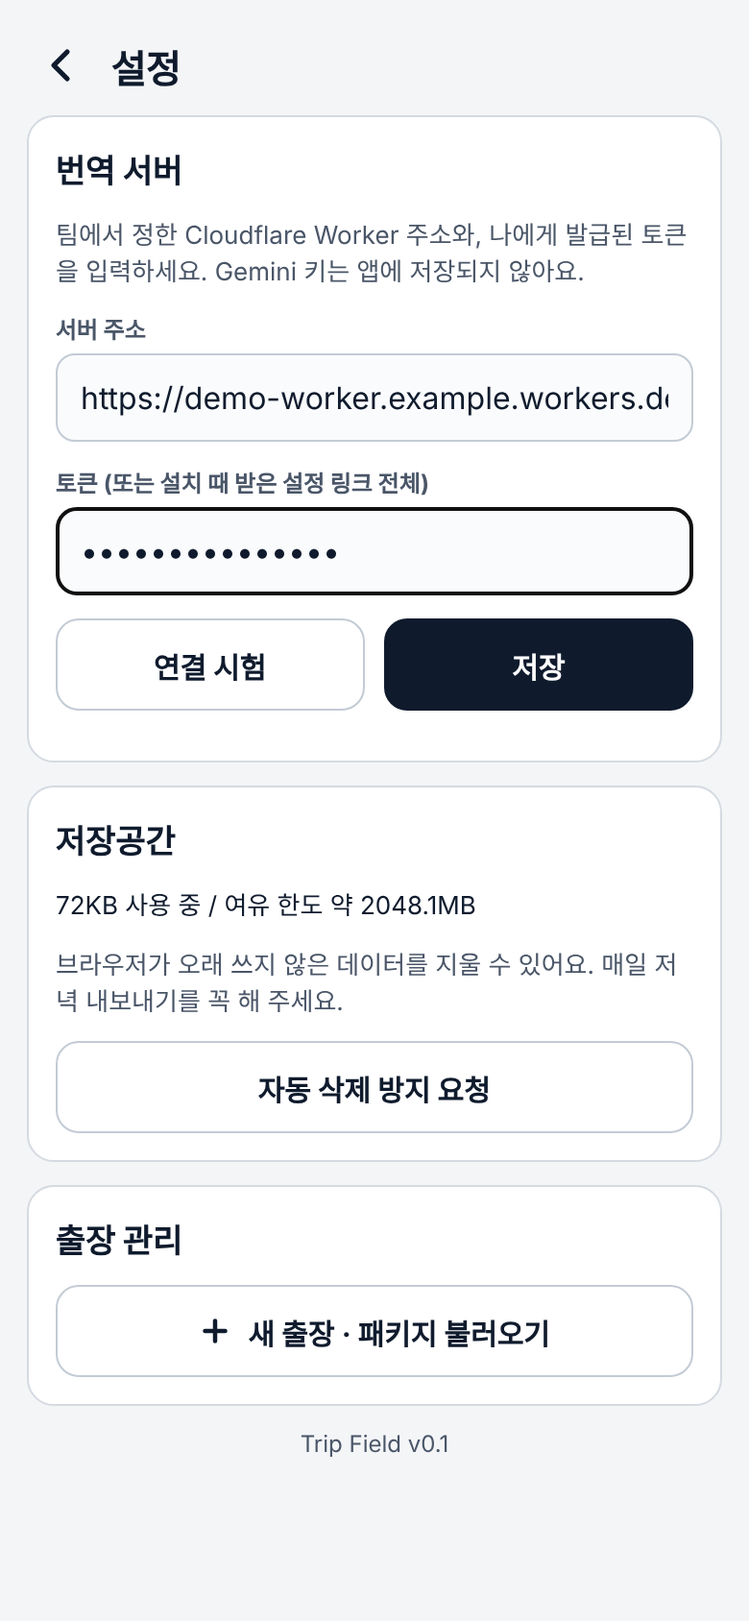
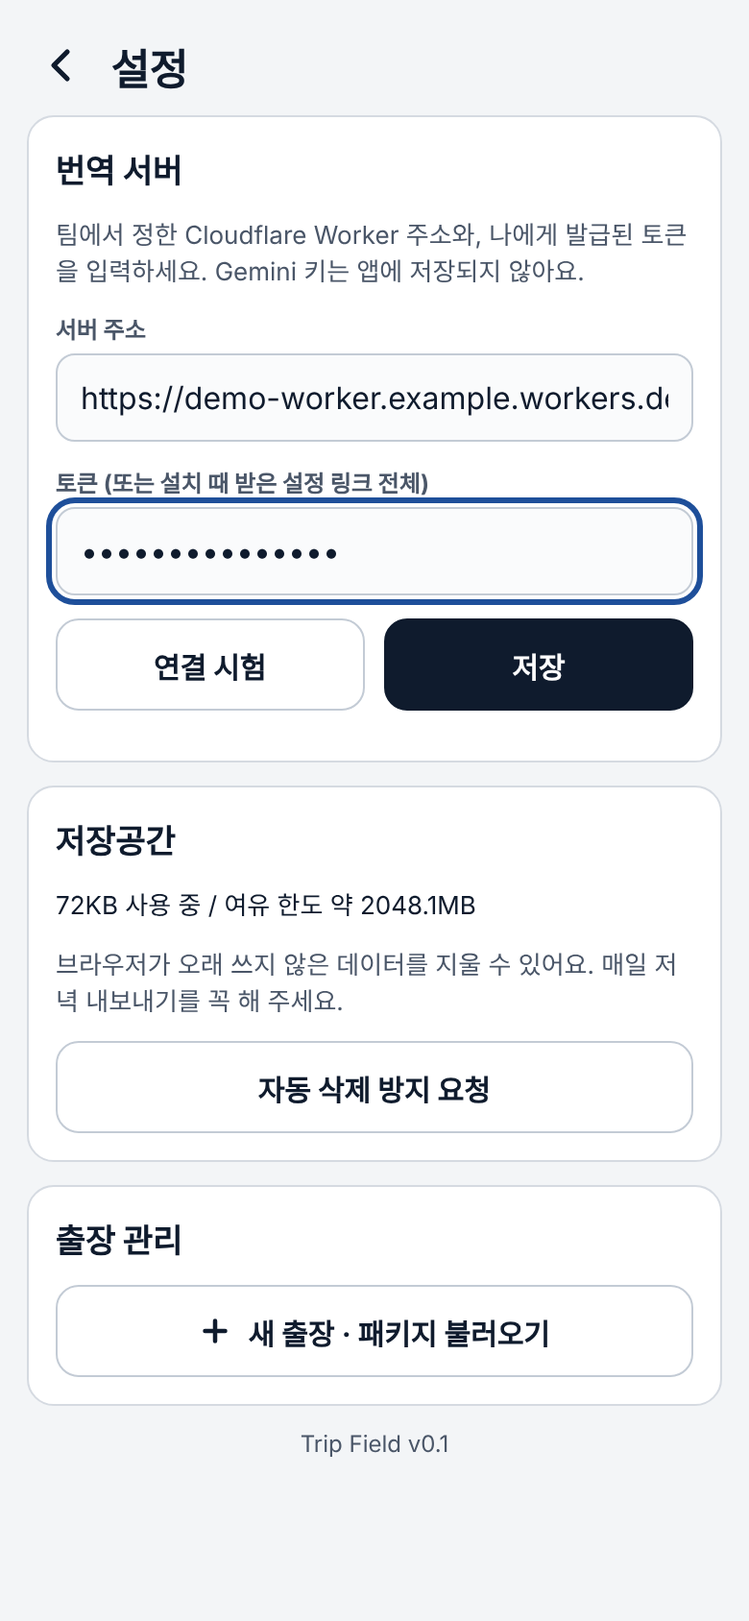
폰 앱 UI 개선: 헤더(라벨 버튼·한 줄 이름), 리스트(다음 세션 카드), 업체 상세(전체폭 방문 체크), 맵(하단 바·핀 위치), 식사·이동 시트(식사+현지 음식 통합, 접기, 평점 칩), 날짜 입력 넘침 수정
Claude-Session: https://claude.ai/code/session_01QquWuwNK276MS5WpECriYo

Changed region(s): [[0.0615, 0.3081, 0.9538, 0.3697], [0.0923, 0.3697, 0.8923, 0.4005], [0.1538, 0.0308, 0.2462, 0.0616]]

diff --git a/field-pwa/js/views/shared.js b/field-pwa/js/views/shared.js
@@ -4,21 +4,21 @@ import * as db from "../db.js";
 import { addCompany, dayLabel } from "../model.js";
 import { LANGUAGES, translateText, translationConfigured, speechRecognitionClass, getLastTiming } from "../translate.js";
 
+const hdrDay = (trip, d) => { const [, m, dd] = (trip.days[d - 1] || "").split("-").map(Number); return m ? `Day ${d} · ${m}/${dd}` : `Day ${d}`; };
 export function headerHtml(trip, day, { showGear = true } = {}) {
   const options = trip.days
-    .map((_, i) => `<option value="${i + 1}" ${i + 1 === day ? "selected" : ""}>${esc(dayLabel(trip, i + 1))}</option>`)
+    .map((_, i) => `<option value="${i + 1}" ${i + 1 === day ? "selected" : ""}>${esc(hdrDay(trip, i + 1))}</option>`)
     .join("");
   return `
     <div class="header">
       <div class="header-row">
-        <div>
-          <div class="eyebrow">${esc(trip.name)}${trip.venue ? " · " + esc(trip.venue) : ""}</div>
+        <div class="hd-main">
+          <div class="eyebrow hd-eye"><span class="net-dot" id="netPill" role="img" aria-label="온라인"></span><span class="hd-trip">${esc(trip.name)}</span><span class="hd-off hidden" id="netOff">오프라인</span></div>
           <label class="day-select"><span class="hidden">날짜 선택</span><select id="daySel" aria-label="날짜 선택">${options}</select></label>
         </div>
-        <div class="row" style="gap:0">
-          <span class="pill pill-blue pill-offline" id="netPill">온라인</span>
-          <button class="icon-btn" id="localBtn" aria-label="식사 장소·현지 교통" style="font-size:20px">🍽</button>
-          <button class="icon-btn" id="tripInfoBtn" aria-label="항공·숙소 예약" style="font-size:20px">✈</button>
+        <div class="row" style="gap:8px">
+          <button class="hbtn" id="localBtn" aria-label="식사·이동 보기">${icons.utensils(22)}식사</button>
+          <button class="hbtn" id="tripInfoBtn" aria-label="항공·숙소 보기">${icons.plane(22)}항공</button>
           ${showGear ? `<button class="icon-btn" id="gearBtn" aria-label="설정">${icons.gear(24)}</button>` : ""}
         </div>
       </div>
@@ -37,8 +37,11 @@ export function bindHeader(root, trip, ctx) {
   });
   const pill = root.querySelector("#netPill");
   if (pill) {
+    const off = root.querySelector("#netOff");
     const update = () => {
-      pill.textContent = navigator.onLine ? "온라인" : "오프라인";
+      pill.classList.toggle("offline", !navigator.onLine);
+      pill.setAttribute("aria-label", navigator.onLine ? "온라인" : "오프라인");
+      off?.classList.toggle("hidden", navigator.onLine);
     };
     update();
     window.addEventListener("online", update);
@@ -293,37 +296,54 @@ export function openLocal(trip) {
   const { meals = [], routes = [], passes = [], foods = [], notes = "" } = trip.local || {};
   const groups = new Map();
   meals.forEach((m) => { const k = m.group || m.area || "기타"; if (!groups.has(k)) groups.set(k, []); groups.get(k).push(m); });
-  const mealHtml = [...groups].map(([g, ms], gi) => `<details class="mfold" ${gi < 2 ? "open" : ""}><summary class="small" style="font-weight:800;margin-top:6px;cursor:pointer;min-height:40px;display:flex;align-items:center;gap:6px">${esc(g)} <span class="muted">· ${ms.length}곳</span></summary>` + ms.map((m) => `
-    <a class="card stack" style="gap:3px;text-decoration:none;color:inherit" target="_blank" rel="noopener noreferrer" href="${dirUrl(m.mapQuery || m.name, "walking")}">
-      <div class="row" style="justify-content:space-between"><b>${m.fav ? "★ " : ""}${esc(m.name)}</b>${m.meal ? `<span class="pill pill-blue">${esc(m.meal)}</span>` : ""}</div>
-      <div class="small muted">${esc([m.cuisine, m.price].filter(Boolean).join(" · "))}</div>
-      ${m.rating || m.reviewSummary ? `<div class="small" style="${Number(m.rating) && Number(m.rating) < 4 ? "color:#b45309" : ""}">${m.rating ? `<b>★ ${esc(m.rating)}</b>${m.reviews ? ` (${esc(m.reviews)})` : ""}` : ""}${m.checkedAt ? ` <span class="muted">${esc(m.checkedAt)} 확인</span>` : ""}${m.reviewSummary ? `<div>${esc(m.reviewSummary)}</div>` : ""}${m.dishes ? `<div class="muted">대표 메뉴: ${esc(m.dishes)}</div>` : ""}</div>` : ""}
-      ${m.where ? `<div class="small">📍 ${esc(m.where)}</div>` : ""}${m.hours ? `<div class="small">🕒 ${esc(m.hours)}</div>` : ""}
-      ${m.why ? `<div class="small">${esc(m.why)}</div>` : ""}${m.tip ? `<div class="small muted">팁: ${esc(m.tip)}</div>` : ""}
-      <div class="small" style="color:var(--blue,#2563eb);font-weight:700">🧭 내 위치에서 길찾기 (구글 지도)</div>
-    </a>`).join("") + `</details>`).join("");
-  const foodHtml = foods.map((f) => `
-    <div class="card stack" style="gap:2px">
-      <div><b>${esc(f.name)}</b>${f.local ? ` <span class="muted small">${esc(f.local)}</span>` : ""}${f.price ? ` <span class="pill">${esc(f.price)}</span>` : ""}</div>
-      ${f.desc ? `<div class="small">${esc(f.desc)}</div>` : ""}${f.order ? `<div class="small">🍴 ${esc(f.order)}</div>` : ""}${f.where ? `<div class="small muted">📍 ${esc(f.where)}</div>` : ""}
-    </div>`).join("");
-  const routeHtml = routes.map((r) => `
-    <div class="card stack" style="gap:3px">
-      <div class="row" style="justify-content:space-between"><b>${r.fav ? "★ " : ""}${esc(r.label || `${r.from} → ${r.to}`)}</b></div>
+  const fold = (title, count, inner, open) => `<details class="gfold" ${open ? "open" : ""}><summary><span class="chev">${icons.chevR(18)}</span><b>${title}</b><span class="ct">${count}</span></summary>${inner}</details>`;
+  const mealCard = (m) => {
+    const low = Number(m.rating) && Number(m.rating) < 4;
+    const few = /^\d+/.test(m.reviews || "") && parseInt(m.reviews, 10) < 30;
+    return `<div class="mcard">
+      <div class="mc-top"><div class="mc-name">${m.fav ? `<span class="mc-fav" role="img" aria-label="즐겨찾기">${icons.star(16)}</span>` : ""}${esc(m.name)}</div>${m.meal ? `<span class="pill pill-blue">${esc(m.meal)}</span>` : ""}</div>
+      <div class="mc-rate">${m.rating ? `<span class="rate${low || few ? " low" : ""}">★ ${esc(m.rating)}${m.reviews ? ` <span>(${esc(m.reviews)})</span>` : ""}</span>` : ""}<span class="small muted">${esc([m.cuisine, m.price].filter(Boolean).join(" · "))}</span></div>
+      ${m.reviewSummary ? `<div class="small">${esc(m.reviewSummary)}</div>` : ""}
+      ${m.where || m.hours ? `<div class="mc-line">${icons.pin(16)}<span>${esc([m.where, m.hours].filter(Boolean).join(" · "))}</span></div>` : ""}
+      ${m.dishes || m.tip ? `<div class="small muted">${m.dishes ? `대표 메뉴 ${esc(m.dishes)}` : ""}${m.dishes && m.tip ? " · " : ""}${m.tip ? `팁 ${esc(m.tip)}` : ""}</div>` : ""}
+      ${m.why ? `<div class="small muted">${esc(m.why)}</div>` : ""}
+      ${m.checkedAt ? `<div class="tiny muted">평점 ${esc(m.checkedAt)} 확인${m.ratingSource ? " · " + esc(m.ratingSource) : ""}</div>` : ""}
+      <a class="go-btn" target="_blank" rel="noopener noreferrer" href="${dirUrl(m.mapQuery || m.name, "walking")}">${icons.compass(18)}내 위치에서 길찾기</a>
+    </div>`;
+  };
+  const foodCard = (f) => `<div class="mcard">
+      <div class="mc-top"><div class="mc-name">${esc(f.name)}${f.local ? ` <span class="muted small" style="font-weight:600">${esc(f.local)}</span>` : ""}</div>${f.price ? `<span class="pill pill-blue">${esc(f.price)}</span>` : ""}</div>
+      ${f.desc ? `<div class="small">${esc(f.desc)}</div>` : ""}${f.order ? `<div class="small"><b>주문</b> ${esc(f.order)}</div>` : ""}${f.where ? `<div class="mc-line">${icons.pin(16)}<span>${esc(f.where)}</span></div>` : ""}
+    </div>`;
+  // 식사 장소와 현지 음식은 한 목록: 장소 그룹들 뒤에 '이 지역 대표 음식' 그룹
+  const mealBody = [...groups].map(([g, ms], gi) => fold(esc(g), `${ms.length}곳`, ms.map(mealCard).join(""), gi < 2)).join("")
+    + (foods.length ? fold("이 지역 대표 음식", `${foods.length}가지`, foods.map(foodCard).join(""), !groups.size) : "");
+  const routeCard = (r) => `<div class="mcard">
+      <div class="mc-top"><div class="mc-name">${r.fav ? `<span class="mc-fav" role="img" aria-label="즐겨찾기">${icons.star(16)}</span>` : ""}${esc(r.label || `${r.from} → ${r.to}`)}</div></div>
       <div class="small">${esc([r.mode, r.line].filter(Boolean).join(" · "))}</div>
-      ${r.boardStation || r.alightStation ? `<div class="small">🚉 <b>${esc(r.boardStation || "?")}</b> 승차 → <b>${esc(r.alightStation || "?")}</b> 하차</div>` : ""}
+      ${r.boardStation || r.alightStation ? `<div class="small"><b>${esc(r.boardStation || "?")}</b> 승차 → <b>${esc(r.alightStation || "?")}</b> 하차</div>` : ""}
       <div class="small muted">${esc([r.durationMin ? `약 ${r.durationMin}분` : "", r.frequency, r.firstLast].filter(Boolean).join(" · "))}</div>
-      ${r.fare || r.ticket ? `<div class="small">💶 ${esc([r.fare, r.ticket].filter(Boolean).join(" · "))}</div>` : ""}
+      ${r.fare || r.ticket ? `<div class="small"><b>${esc([r.fare, r.ticket].filter(Boolean).join(" · "))}</b></div>` : ""}
       ${r.whereToBuy ? `<div class="small muted">표 구입: ${esc(r.whereToBuy)}</div>` : ""}${r.taxi ? `<div class="small muted">택시: ${esc(r.taxi)}</div>` : ""}
       ${(r.steps || []).length ? `<ol class="small" style="margin:2px 0;padding-left:18px">${r.steps.map((t) => `<li>${esc(t)}</li>`).join("")}</ol>` : ""}
       ${r.tips ? `<div class="small muted">팁: ${esc(r.tips)}</div>` : ""}
-      <a class="small" target="_blank" rel="noopener noreferrer" href="${dirUrl(r.to || r.alightStation || "", "transit")}">🧭 내 위치에서 대중교통 길찾기 (구글 지도)</a>
-    </div>`).join("");
-  const passHtml = passes.map((p) => `<div class="card stack" style="gap:2px"><b>${esc(p.name)}${p.price ? " · " + esc(p.price) : ""}</b>${p.valid ? `<div class="small muted">유효: ${esc(p.valid)}</div>` : ""}${p.whereToBuy ? `<div class="small muted">구입: ${esc(p.whereToBuy)}</div>` : ""}${p.note ? `<div class="small muted">${esc(p.note)}</div>` : ""}</div>`).join("");
-  const sec = (t, b) => (b ? `<div class="small muted" style="font-weight:800;margin-top:8px">${t}</div>${b}` : "");
-  const body = mealHtml || foodHtml || routeHtml || passHtml ? `${sec("식사 장소 — 누르면 내 위치에서 길찾기", mealHtml)}${sec("현지 음식 가이드", foodHtml)}${sec("현지 교통", routeHtml)}${sec("표·패스", passHtml)}${notes ? `<div class="card small muted">${esc(notes)}</div>` : ""}`
-    : `<div class="card small muted">아직 정리된 식사 장소·교통 정보가 없어요. 노트북 Trip Desk 의 '식사·이동' 탭에서 정리하고 패키지를 다시 보내면 여기에 나와요.</div>`;
-  openSheet(`<div class="sheet-head"><h2 class="sheet-title">식사·이동</h2><button class="icon-btn" data-close aria-label="닫기" style="margin-right:-8px">${icons.close(22)}</button></div><div class="stack">${body}</div>`);
+      <a class="go-btn" target="_blank" rel="noopener noreferrer" href="${dirUrl(r.to || r.alightStation || "", "transit")}">${icons.compass(18)}내 위치에서 대중교통 길찾기</a>
+    </div>`;
+  const passCard = (p) => `<div class="mcard"><div class="mc-name">${esc(p.name)}${p.price ? " · " + esc(p.price) : ""}</div>${p.valid ? `<div class="small muted">유효: ${esc(p.valid)}</div>` : ""}${p.whereToBuy ? `<div class="small muted">구입: ${esc(p.whereToBuy)}</div>` : ""}${p.note ? `<div class="small muted">${esc(p.note)}</div>` : ""}</div>`;
+  const moveBody = (routes.length ? routes.map(routeCard).join("") : "")
+    + (passes.length ? `<div class="group-title">표·패스</div>${passes.map(passCard).join("")}` : "")
+    + (notes ? `<div class="mcard small muted">${esc(notes)}</div>` : "");
+  const nMeal = meals.length + foods.length, nMove = routes.length + passes.length;
+  const empty = `<div class="card small muted">아직 정리된 식사 장소·교통 정보가 없어요. 노트북 Trip Desk 의 '식사·이동' 탭에서 정리하고 패키지를 다시 보내면 여기에 나와요.</div>`;
+  const { el } = openSheet(`<div class="lsheet-top"><div class="sheet-head"><h2 class="sheet-title">식사·이동</h2><button class="icon-btn" data-close aria-label="닫기" style="margin-right:-8px">${icons.close(22)}</button></div>
+      <div class="ltabs" role="tablist" aria-label="보기 선택"><button role="tab" class="on" data-lt="meal" aria-selected="true">식사 · ${nMeal}</button><button role="tab" data-lt="move" aria-selected="false">교통 · ${nMove}</button></div></div>
+    <div id="ltMeal" role="tabpanel">${mealBody || empty}</div><div id="ltMove" role="tabpanel" class="hidden">${moveBody || empty}</div>`);
+  el.querySelectorAll("[data-lt]").forEach((b) => b.addEventListener("click", () => {
+    el.querySelectorAll("[data-lt]").forEach((o) => { const on = o === b; o.classList.toggle("on", on); o.setAttribute("aria-selected", String(on)); });
+    el.querySelector("#ltMeal").classList.toggle("hidden", b.dataset.lt !== "meal");
+    el.querySelector("#ltMove").classList.toggle("hidden", b.dataset.lt !== "move");
+  }));
+  if (!meals.length && !foods.length && routes.length) el.querySelector('[data-lt="move"]').click();
 }
 
 // 세션(세미나·컨퍼런스) 상세: 시간·장소·연사·주제, 홀이 있으면 맵에서 보기

diff --git a/field-pwa/css/app.css b/field-pwa/css/app.css
@@ -175,3 +175,58 @@ button { cursor: pointer; }
 .dup-line { white-space: normal !important; overflow: visible !important; }
 
 .core-pill { color: #6b4300; background: #ffe8a3; border: 1px solid #e2b33a; margin-left: 6px; font-size: 11px; font-weight: 700; }
+
+/* ---- 2026-11 디자인 개선 ---- */
+.field, .input, .select { min-width: 0; }
+input[type="date"].input { max-width: 100%; }
+:focus-visible { outline: 3px solid var(--blue); outline-offset: 2px; }
+.hd-main { flex: 1; min-width: 0; }
+.hd-eye { display: flex; align-items: center; gap: 8px; min-width: 0; }
+.hd-trip { white-space: nowrap; overflow: hidden; text-overflow: ellipsis; min-width: 0; }
+.hd-off { flex: none; font-size: 11px; font-weight: 800; color: #7a4300; background: #fff1d6; padding: 1px 8px; border-radius: 999px; }
+.net-dot { width: 8px; height: 8px; border-radius: 4px; background: #1e7a46; flex: none; }
+.net-dot.offline { background: #b45309; }
+.hbtn { width: 48px; height: 56px; border-radius: 12px; border: 1px solid #c3ccd8; background: #fff; display: flex; flex-direction: column; align-items: center; justify-content: center; gap: 2px; font-size: 11px; font-weight: 700; color: #2b3a4f; padding: 0; }
+.day-select select { font-size: 26px; max-width: 100%; }
+.prog-t { display: flex; justify-content: space-between; font-size: 13px; font-weight: 800; margin-bottom: 6px; gap: 8px; }
+.amber { color: #7a4300; }
+.next-card { width: 100%; margin-top: 4px; display: flex; align-items: center; gap: 12px; text-align: left; background: var(--blue-bg); border: 1px solid #b9cdeb; border-radius: 14px; padding: 12px 14px; color: #12386e; }
+.next-card .item-name { color: var(--ink); }
+.next-t { width: 48px; flex: none; text-align: center; font-size: 17px; font-weight: 800; line-height: 1.1; }
+.next-t small { display: block; font-size: 11px; font-weight: 800; color: var(--blue); }
+.sess-t { width: 52px; flex: none; font-size: 13px; font-weight: 800; color: var(--blue); line-height: 1.25; }
+.sess-t small { display: block; font-weight: 500; color: var(--sub); font-size: 11px; }
+.more-btn { width: 100%; min-height: 48px; border: 0; border-top: 1px solid var(--line-soft); background: transparent; font-weight: 700; color: var(--blue); }
+.visit-btn { height: 56px; font-size: 16px; }
+.visit-done { height: 56px; border-radius: 12px; background: #e3f3e9; color: #17623a; font-weight: 800; display: flex; align-items: center; justify-content: center; gap: 8px; }
+.appbar-title { font-size: 22px; }
+.map-bar { flex: none; margin: 0 14px 12px; display: flex; align-items: center; justify-content: space-between; gap: 12px; }
+.map-bar .lg { display: inline-block; width: 10px; height: 10px; border-radius: 5px; margin: 0 4px 0 0; vertical-align: -1px; }
+.map-bar .lg + .lg, .map-bar .lg.done { margin-left: 8px; }
+.map-bar .lg.todo { background: #c2410c; } .map-bar .lg.done { background: #1e7a46; }
+.hall-pin { min-height: 28px; padding: 2px 8px; font-size: 12px; }
+/* 식사·이동 시트 */
+.lsheet-top { position: sticky; top: -16px; background: #fff; margin: -16px -16px 4px; padding: 16px 16px 10px; z-index: 2; border-bottom: 1px solid var(--line-soft); }
+.ltabs { display: flex; gap: 2px; background: #e4e9ef; border-radius: 12px; padding: 3px; margin-top: 6px; }
+.ltabs button { flex: 1; height: 40px; border: 0; border-radius: 9px; background: transparent; font-weight: 700; color: #3b4a5e; }
+.ltabs button.on { background: var(--ink); color: #fff; }
+details.gfold > summary { list-style: none; display: flex; align-items: center; gap: 8px; min-height: 52px; cursor: pointer; }
+details.gfold > summary::-webkit-details-marker { display: none; }
+details.gfold .chev { display: inline-flex; transition: transform .15s; color: var(--sub); }
+details.gfold[open] .chev { transform: rotate(90deg); }
+details.gfold .ct { font-size: 12px; font-weight: 800; background: #e4e9ef; color: #3b4a5e; border-radius: 999px; padding: 1px 9px; }
+details.gfold + details.gfold { border-top: 1px solid var(--line-soft); }
+.mcard { background: #fff; border: 1px solid var(--line); border-radius: 14px; padding: 14px; display: flex; flex-direction: column; gap: 6px; margin: 0 0 10px; }
+.mc-top { display: flex; justify-content: space-between; align-items: center; gap: 8px; }
+.mc-name { font-size: 17px; font-weight: 800; display: flex; align-items: center; gap: 6px; flex-wrap: wrap; }
+.mc-fav { color: #c98a00; display: inline-flex; }
+.mc-rate { display: flex; align-items: center; gap: 8px; flex-wrap: wrap; }
+.rate { display: inline-flex; gap: 4px; font-size: 13px; font-weight: 800; color: #12386e; background: var(--blue-bg); border-radius: 8px; padding: 2px 8px; }
+.rate span { font-weight: 600; }
+.rate.low { color: #7a4300; background: #fff1d6; }
+.mc-line { display: flex; gap: 8px; align-items: flex-start; font-size: 13px; color: #2b3a4f; }
+.mc-line svg { margin-top: 2px; }
+.go-btn { height: 48px; border-radius: 12px; border: 1px solid var(--blue); color: var(--blue); font-weight: 800; display: flex; align-items: center; justify-content: center; gap: 8px; text-decoration: none; margin-top: 4px; background: #fff; }
+.sess-t, .next-t { font-variant-numeric: tabular-nums; }
+.day-select { display: flex; width: 100%; }
+.day-select select { width: 100%; font-size: 24px; text-overflow: ellipsis; }

diff --git a/field-pwa/js/views/list.js b/field-pwa/js/views/list.js
@@ -5,6 +5,7 @@ import * as db from "../db.js";
 import { headerHtml, bindHeader, openAddCompany, openSession, dupBadge } from "./shared.js";
 
 let filter = "today";
+let sessOpen = false;
 
 export async function renderList(root, ctx) {
   const { trip, day, companies } = ctx;
@@ -30,21 +31,37 @@ export async function renderList(root, ctx) {
 
   const date = trip.days[day - 1];
   const todaySessions = (trip.sessions || []).filter((x) => x.date === date);
-  const sessHtml = todaySessions.length
-    ? `<div class="group-title">오늘 세션 · ${todaySessions.length}개</div><div class="list-card">${todaySessions
-        .map((x) => `<div class="item" data-sess="${esc(x.id)}" role="button" tabindex="0"><div class="item-main"><div class="item-name"><span style="color:var(--orange);font-weight:800">${esc(x.start || "시간 미정")}${x.end ? "~" + esc(x.end) : ""}</span> ${esc(x.title)}${x.going ? ` <span class="pill pill-blue">참석</span>` : ""}</div><div class="item-sub">${esc([x.place, x.hall && `홀 ${x.hall}`, x.speaker].filter(Boolean).join(" · ") || "장소 미정")}</div></div><span class="muted" aria-hidden="true">›</span></div>`)
-        .join("")}</div>`
+  const sorted = [...todaySessions].sort((x, y) => (x.start || "99:99").localeCompare(y.start || "99:99"));
+  const now = new Date();
+  const nowHm = `${String(now.getHours()).padStart(2, "0")}:${String(now.getMinutes()).padStart(2, "0")}`;
+  const isToday = date === `${now.getFullYear()}-${String(now.getMonth() + 1).padStart(2, "0")}-${String(now.getDate()).padStart(2, "0")}`;
+  const next = sorted.find((x) => x.start && (!isToday || x.start >= nowHm)) || null;
+  const sessMeta = (x) => esc([x.place, x.hall && `홀 ${x.hall}`, x.speaker].filter(Boolean).join(" · ") || "장소 미정");
+  const nextHtml = next
+    ? `<button class="next-card" data-sess="${esc(next.id)}"><div class="next-t"><small>${isToday ? "다음" : "첫 세션"}</small>${esc(next.start)}</div>
+        <div class="item-main"><div class="item-name">${esc(next.title)}${next.going ? ` <span class="pill pill-blue">참석</span>` : ""}</div><div class="item-sub">${sessMeta(next)}</div></div>${icons.chevR(20)}</button>`
+    : "";
+  const rest = sorted.filter((x) => x !== next);
+  const shownSess = sessOpen ? rest : rest.slice(0, 2);
+  const sessHtml = rest.length
+    ? `<div class="group-title" style="display:flex;justify-content:space-between"><span>오늘 세션 · ${todaySessions.length}개</span></div><div class="list-card">${shownSess
+        .map((x) => `<div class="item" data-sess="${esc(x.id)}" role="button" tabindex="0"><div class="sess-t">${esc(x.start || "미정")}<small>${x.end ? "~" + esc(x.end) : ""}</small></div><div class="item-main"><div class="item-name">${esc(x.title)}${x.going ? ` <span class="pill pill-blue">참석</span>` : ""}</div><div class="item-sub">${sessMeta(x)}</div></div><span class="muted" aria-hidden="true">›</span></div>`)
+        .join("")}${rest.length > 2 ? `<button class="more-btn" id="sessMore" aria-expanded="${sessOpen}">${sessOpen ? "접기" : `세션 ${rest.length - 2}개 더 보기`}</button>` : ""}</div>`
     : "";
 
   root.innerHTML = `
     ${headerHtml(trip, day)}
-    <div class="header" style="padding-top:0;gap:8px">
-      <div class="row" style="justify-content:space-between"><div class="title" style="font-size:20px">방문 리스트</div>
-        <div class="seg"><button class="${filter === "today" ? "on" : ""}" data-f="today">오늘</button><button class="${filter === "all" ? "on" : ""}" data-f="all">전체</button></div></div>
-      <div style="display:flex;justify-content:space-between;font-size:13px;font-weight:700"><span>${planned.length}곳 중 ${done}곳 완료</span><span style="color:var(--orange)">현장 추가 ${onsite}곳</span></div>
-      <div class="progress" role="progressbar" aria-valuenow="${pct}" aria-valuemin="0" aria-valuemax="100"><div style="width:${pct}%"></div></div>
+    <div class="header" style="padding-top:0;gap:12px">
+      <div class="row" style="justify-content:space-between;gap:12px">
+        <div style="flex:1;min-width:0">
+          <div class="prog-t"><span>업체 ${done}/${planned.length} 방문 완료</span><span class="amber">현장 추가 ${onsite}</span></div>
+          <div class="progress" role="progressbar" aria-valuenow="${pct}" aria-valuemin="0" aria-valuemax="100"><div style="width:${pct}%"></div></div>
+        </div>
+        <div class="seg"><button class="${filter === "today" ? "on" : ""}" data-f="today">오늘</button><button class="${filter === "all" ? "on" : ""}" data-f="all">전체</button></div>
+      </div>
     </div>
     <div class="scroll">
+      ${nextHtml}
       ${sessHtml}
       ${
         groups.length
@@ -61,6 +78,7 @@ export async function renderList(root, ctx) {
       ctx.rerender();
     };
   });
+  root.querySelector("#sessMore")?.addEventListener("click", () => { sessOpen = !sessOpen; ctx.rerender(); });
   root.querySelector("#addBtn").onclick = () => openAddCompany(ctx);
   root.querySelectorAll("[data-sess]").forEach((row) => {
     row.onclick = () => openSession(todaySessions.find((x) => x.id === row.dataset.sess), trip, () => ctx.rerender());

diff --git a/field-pwa/js/views/map.js b/field-pwa/js/views/map.js
@@ -21,9 +21,6 @@ export async function renderMap(root, ctx) {
 
   root.innerHTML = `
     ${headerHtml(trip, day)}
-    <div class="header" style="padding-top:0"><div class="chips">
-      <div class="chip">오늘 ${todays.length - onsite}곳</div><div class="chip">완료 ${done}</div><div class="chip">현장 추가 ${onsite}</div>
-    </div></div>
     <div class="map-wrap">
       ${
         map
@@ -38,8 +35,10 @@ export async function renderMap(root, ctx) {
                <button class="btn btn-dark" id="loadMap">맵 파일 불러오기</button>
              </div>`
       }
-      <button class="fab" id="fabAdd">${icons.plus(18)}업체 추가</button>
-    </div>`;
+    </div>
+    <div class="map-bar"><div><b>오늘 ${todays.length - onsite}곳</b><span class="muted"> · 완료 ${done}${onsite ? ` · 현장 추가 ${onsite}` : ""}</span>
+      <div class="tiny muted"><i class="lg todo"></i>남은 <i class="lg done"></i>완료</div></div>
+      <button class="btn btn-primary" id="fabAdd">${icons.plus(18)}업체 추가</button></div>`;
 
   bindHeader(root, trip, ctx);
   root.querySelector("#fabAdd").onclick = () => openAddCompany(ctx);
@@ -92,7 +91,7 @@ export async function renderMap(root, ctx) {
   }
   const place = () => {
     const w = img.naturalWidth || map.width, hh = img.naturalHeight || map.height;
-    for (const [b, m] of pins) b.style.transform = `translate(${pz.x + m.x * w * pz.scale}px, ${pz.y + m.y * hh * pz.scale}px) translate(-50%,-100%)`;
+    for (const [b, m] of pins) b.style.transform = `translate(${pz.x + m.x * w * pz.scale}px, ${pz.y + m.y * hh * pz.scale}px) translate(-50%,calc(-100% - 16px))`;
   };
   pz.onChange = (s) => { viewStates.set(map.id, s); place(); };
   if (img.complete) place(); else img.addEventListener("load", place);

diff --git a/field-pwa/js/ui.js b/field-pwa/js/ui.js
@@ -25,6 +25,12 @@ export const icons = {
   gear: (s) => svg('<circle cx="12" cy="12" r="3"/><path d="M19.4 15a1.7 1.7 0 00.3 1.8l.1.1a2 2 0 11-2.8 2.8l-.1-.1a1.7 1.7 0 00-1.8-.3 1.7 1.7 0 00-1 1.5V21a2 2 0 11-4 0v-.1a1.7 1.7 0 00-1.1-1.5 1.7 1.7 0 00-1.8.3l-.1.1a2 2 0 11-2.8-2.8l.1-.1a1.7 1.7 0 00.3-1.8 1.7 1.7 0 00-1.5-1H3a2 2 0 110-4h.1a1.7 1.7 0 001.5-1.1 1.7 1.7 0 00-.3-1.8l-.1-.1a2 2 0 112.8-2.8l.1.1a1.7 1.7 0 001.8.3H9a1.7 1.7 0 001-1.5V3a2 2 0 114 0v.1a1.7 1.7 0 001 1.5 1.7 1.7 0 001.8-.3l.1-.1a2 2 0 112.8 2.8l-.1.1a1.7 1.7 0 00-.3 1.8V9a1.7 1.7 0 001.5 1H21a2 2 0 110 4h-.1a1.7 1.7 0 00-1.5 1z"/>', s, 1.8),
   star: (s = 14) => `<svg aria-hidden="true" width="${s}" height="${s}" viewBox="0 0 24 24" fill="currentColor"><path d="M12 3l2.7 5.8 6.3.7-4.7 4.3 1.3 6.2L12 17l-5.6 3 1.3-6.2L3 9.5l6.3-.7z"/></svg>`,
   warn: (s) => svg('<path d="M12 3l10 18H2z"/><path d="M12 10v5M12 18h.01"/>', s, 2.4),
+  utensils: (s) => svg('<path d="M7 3v8M4 3v5a3 3 0 006 0V3M7 11v10M17 21V3c-2.5 1.5-3.5 4-3.5 7 0 2 1 3 3.5 3"/>', s, 2),
+  plane: (s) => svg('<path d="M10.5 13.5L3 11l1.5-1.5 9 .5L18 5.5a2 2 0 013 3l-4.5 4.5.5 9-1.5 1.5-2.5-7.5-4.5 4.5-1-1 4.5-4.5z"/>', s, 2),
+  chevR: (s) => svg('<path d="M9 6l6 6-6 6"/>', s, 2.4),
+  chevD: (s) => svg('<path d="M6 9l6 6 6-6"/>', s, 2.6),
+  compass: (s) => svg('<path d="M12 3l7 18-7-4-7 4z"/>', s, 2.2),
+  pin: (s) => svg('<path d="M12 21s7-6.2 7-11.5A7 7 0 005 9.5C5 14.8 12 21 12 21z"/><circle cx="12" cy="9.5" r="2.5"/>', s, 2),
   trash: (s) => svg('<path d="M4 7h16M10 11v6M14 11v6M6 7l1 13h10l1-13M9 7V4h6v3"/>', s),
 };
 

diff --git a/field-pwa/js/views/detail.js b/field-pwa/js/views/detail.js
@@ -73,10 +73,10 @@ export async function renderDetail(root, ctx, companyId) {
     <div class="appbar">
       <button class="icon-btn" id="backBtn" aria-label="리스트로 돌아가기">${icons.back(24)}</button>
       <div class="appbar-main"><div class="appbar-title">${esc(company.name)}</div><div class="small muted">${esc(place || "정보 없음")}${company.core ? ` <span class="pill core-pill">★ 핵심 업체</span>` : ""}${company.dup ? ` <span class="pill dup-pill">중복 ${company.dup.i}/${company.dup.n}</span>` : ""}</div></div>
-      ${isVisited(company, day) ? `<span class="pill pill-blue">오늘 방문함</span>` : `<button class="btn btn-sm" id="visitBtn">방문 체크</button>`}
     </div>
     <div class="scroll" style="padding-top:10px">
       <div class="stack">
+        ${isVisited(company, day) ? `<div class="visit-done">${icons.check(20)}오늘 방문함</div>` : `<button class="btn btn-dark btn-block visit-btn" id="visitBtn">${icons.check(22)}방문 체크</button>`}
         ${company.addedOnSite ? `<div><span class="pill pill-orange">현장 추가</span></div>` : ""}
         ${
           company.preNotes || company.questions?.length

diff --git a/field-pwa/sw.js b/field-pwa/sw.js
@@ -1,6 +1,6 @@
 // 서비스 워커: 한 번 열어 두면 오프라인에서도 앱이 켜진다.
 // 파일을 바꿔 배포할 때는 VERSION 숫자를 올려 주세요.
-const VERSION = "tf-v22";
+const VERSION = "tf-v24";
 
 const SHELL = [
   "./",
